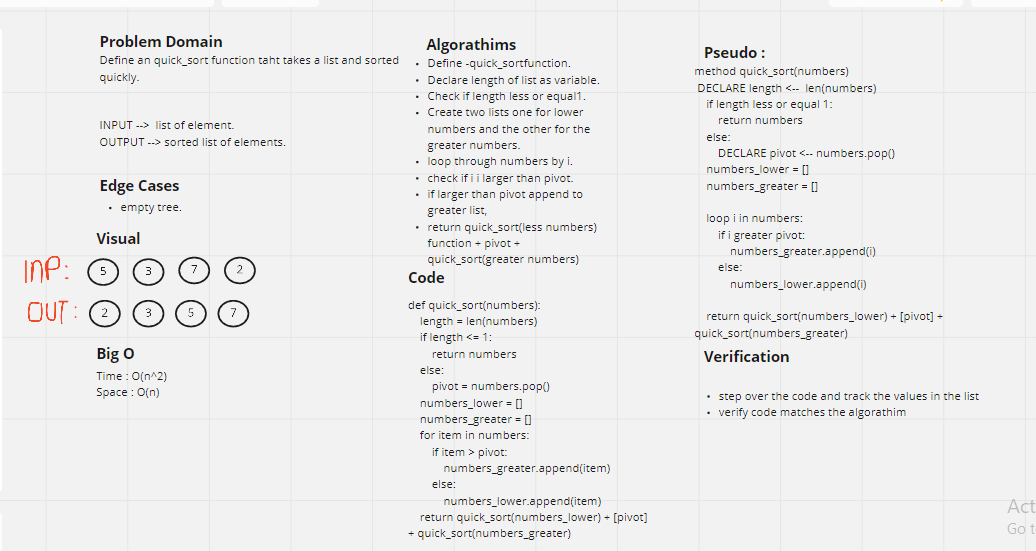
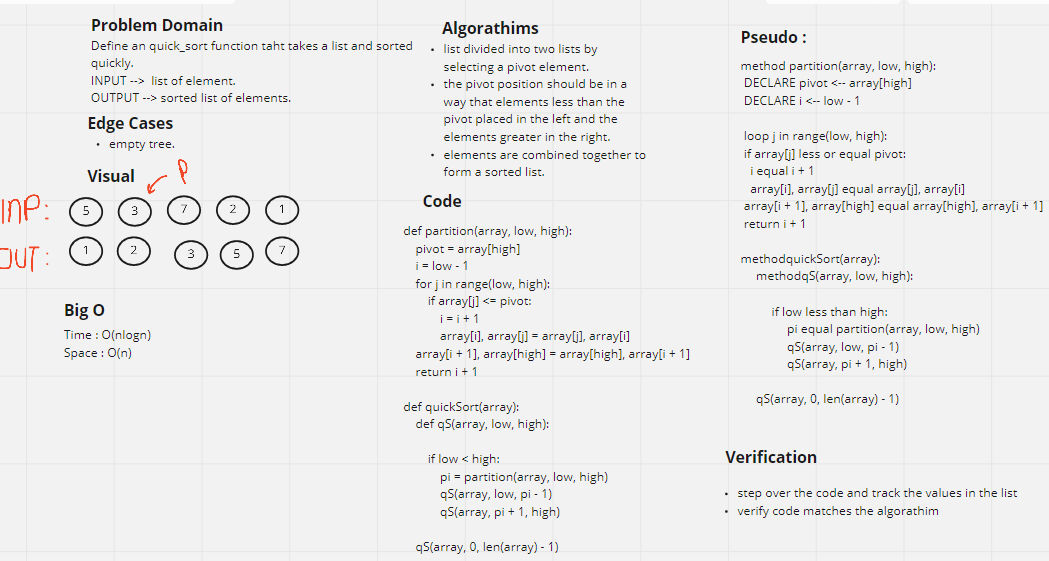
fix methods and test

diff --git a/python/tests/test_quick_sort.py b/python/tests/test_quick_sort.py
@@ -1,22 +1,27 @@
 import pytest
-from code_challenges.quick_sort.quick_sort import quick_sort
+from code_challenges.quick_sort.quick_sort import quickSort
 
-def test_quick_sort():
-    actual = quick_sort([5,2,6,0])
-    excpected = [0, 2, 5, 6]
-    assert excpected == actual
+def test_1():
+  data1=[2,1,8,4,3]
+  quickSort(data1)
+  assert [1,2,3,4,8]==data1
 
-def test_quick_sort2():
-    actual = quick_sort([20,18,12,8,5,-2])
-    excpected = [-2, 5, 8, 12, 18, 20]
-    assert excpected == actual
+  data2=[8,4,23,42,16,15]
+  quickSort(data2)
+  assert [4,8,15,16,23,42]==data2
 
-def test_quick_sort3():
-    actual = quick_sort([5,12,7,5,5,7])
-    excpected = [5, 5, 5, 7, 7, 12]
-    assert excpected == actual
+  data3=[20,18,12,8,5,-2]
+  quickSort(data3)
+  assert [-2,5,8,12,18,20]==data3
 
-def test_quick_sort4():
-    actual = quick_sort([2,3,5,7,13,11])
-    excpected = [2, 3, 5, 7, 11, 13]
-    assert excpected == actual
+  data4=[5,12,7,5,5,7]
+  quickSort(data4)
+  assert [5,5,5,7,7,12]==data4
+
+  data5=[2,3,5,7,13,11]
+  quickSort(data5)
+  assert [2,3,5,7,11,13]==data5
+
+  data6=[20,18,12,8,5,-2]
+  quickSort(data6)
+  assert [-2,5,8,12,18,20]==data6

diff --git a/python/code_challenges/quick_sort/quick_sort.py b/python/code_challenges/quick_sort/quick_sort.py
@@ -1,25 +1,22 @@
-def quick_sort(numbers):
-    """
-    A function that takes a list and sorted quickly.
+def partition(array, low, high):
+    
+    pivot = array[high]
+    i = low - 1
+    for j in range(low, high):
+        if array[j] <= pivot:
+            i = i + 1
+            array[i], array[j] = array[j], array[i]
 
-    """
+    array[i + 1], array[high] = array[high], array[i + 1]
+    return i + 1
 
-    length = len(numbers)
-    if length <= 1:
-        return numbers
-    else:
-        pivot = numbers.pop()
+def quickSort(array):
+    
+    def qS(array, low, high):
 
-    numbers_lower = []
-    numbers_greater = []
+        if low < high:
+            pi = partition(array, low, high)
+            qS(array, low, pi - 1)
+            qS(array, pi + 1, high)
 
-    for item in numbers:
-        if item > pivot:
-            numbers_greater.append(item)
-
-        else:
-            numbers_lower.append(item)
-
-    return quick_sort(numbers_lower) + [pivot] + quick_sort(numbers_greater)
-
-print(quick_sort([7,6,5,6,7,8,9,0]))
+    qS(array, 0, len(array) - 1)
